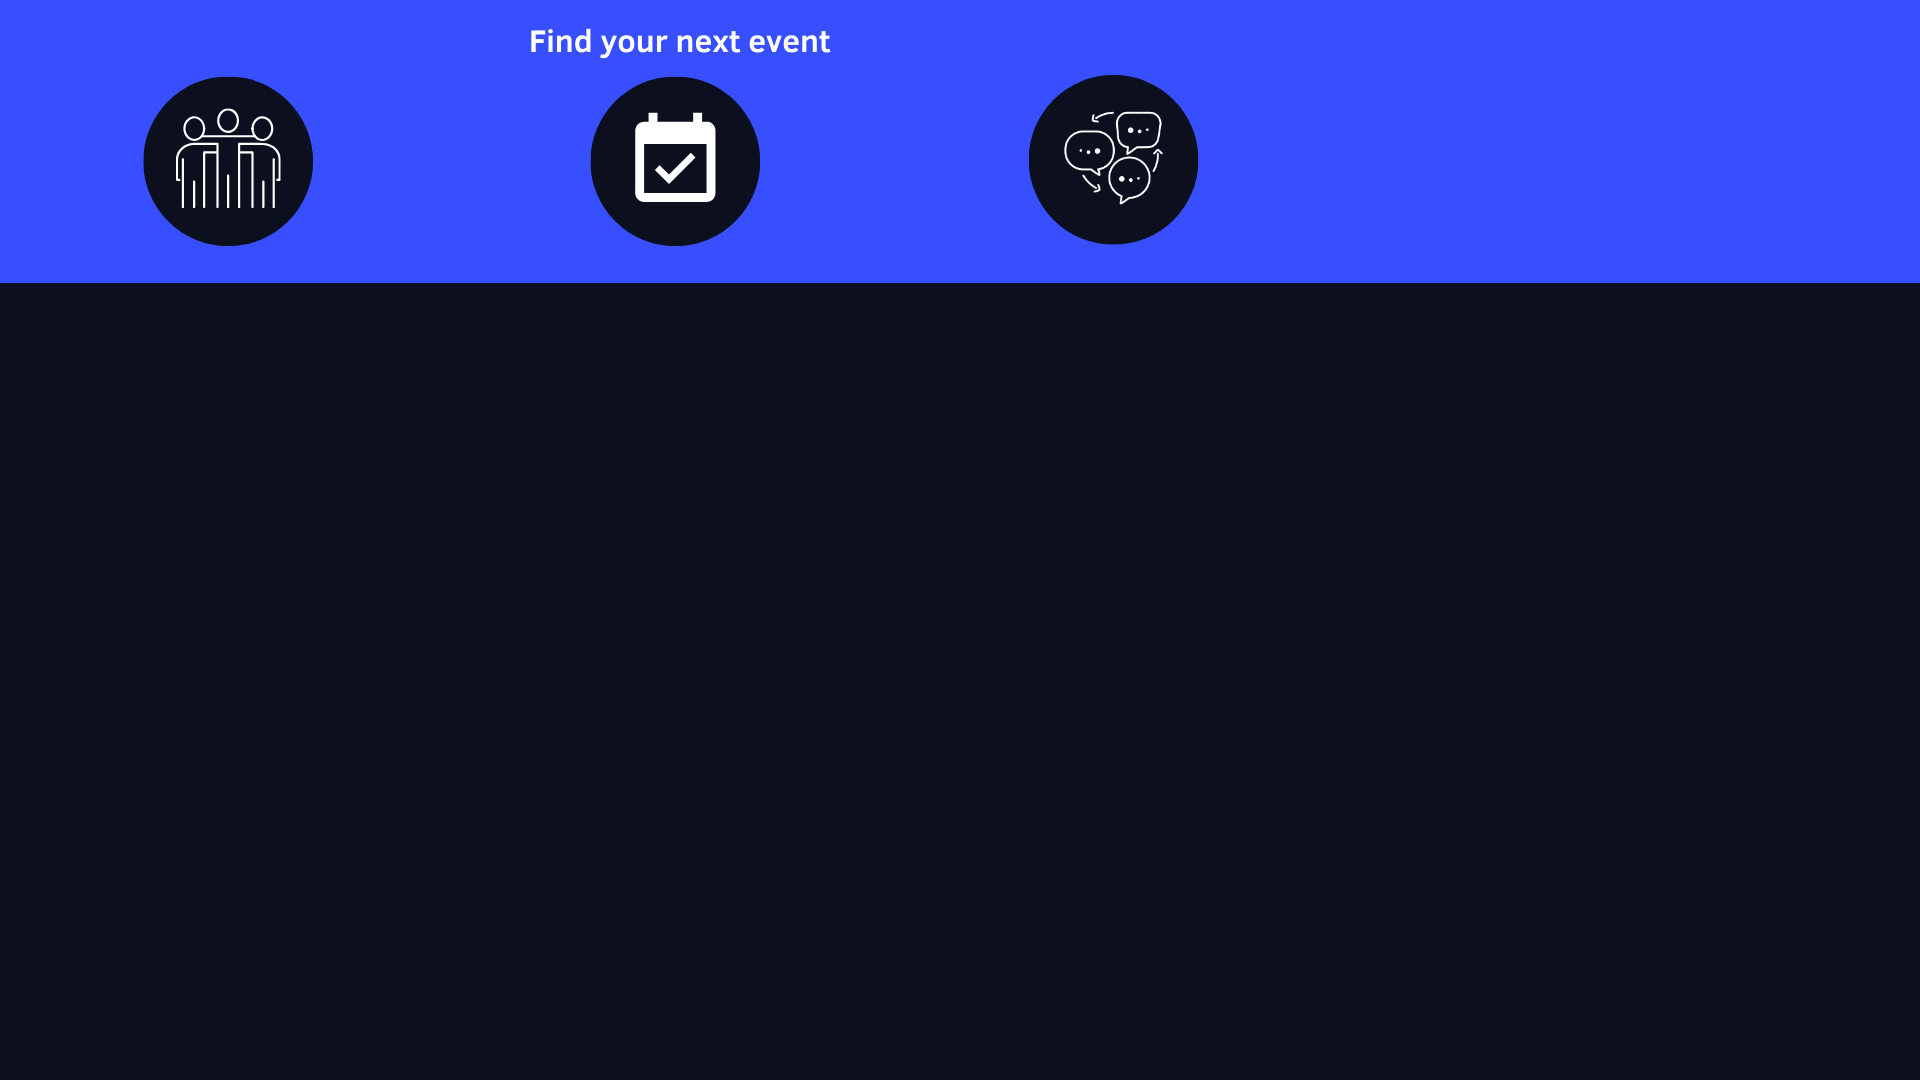
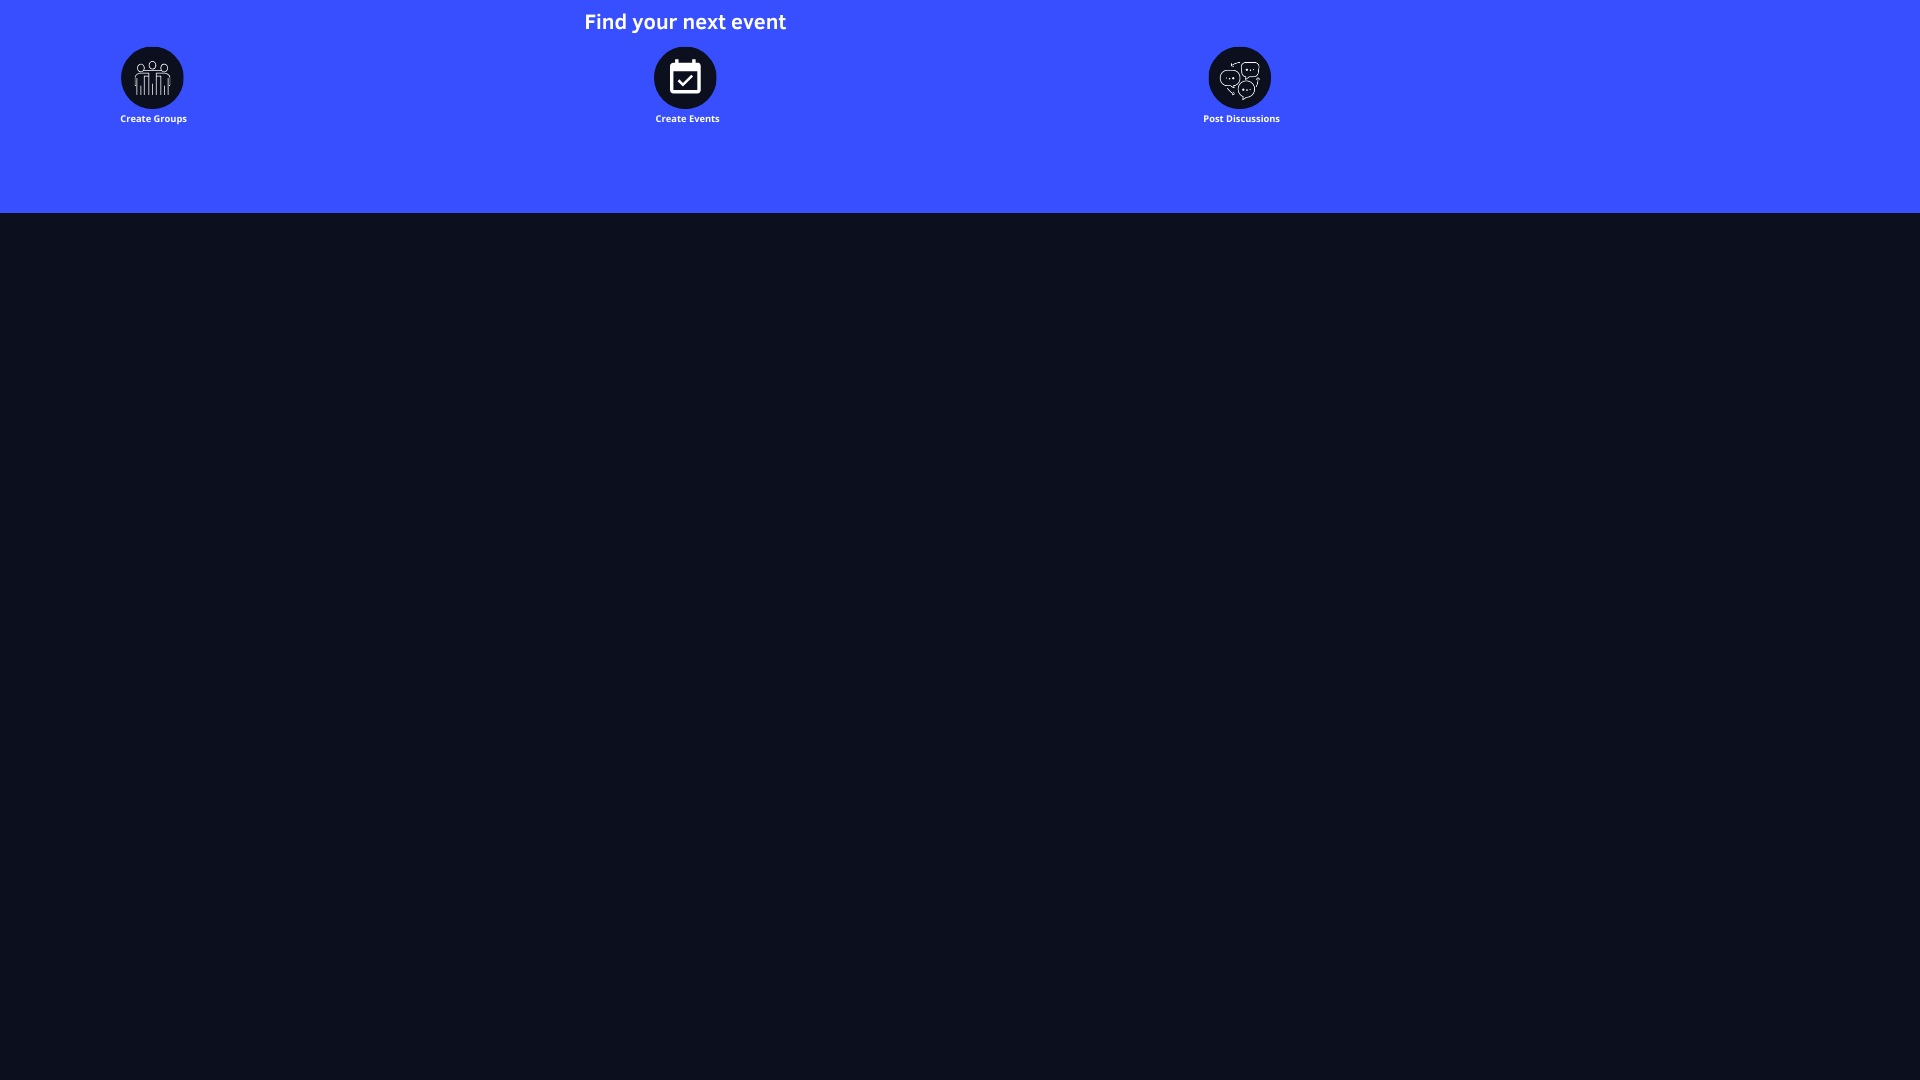
Changes to home and groups page

Changed region(s): [[0.0, 0.0, 1.0, 0.275]]

diff --git a/react-front/src/group/Groups.js b/react-front/src/group/Groups.js
@@ -45,32 +45,60 @@ class Groups extends Component {
             : " Unknown";
 
           return (
-            <div className="card col-md-12 mb-2" key={i}>
-              <div className="card-body">
-                <img
-                  src={`${process.env.REACT_APP_API_URL}/group/photo/${group._id}`}
-                  alt={group.name}
-                  onError={i => (i.target.src = `${DefaultPost}`)}
-                  className="img-thumbnail mb-3"
-                  style={{ height: "200px", width: "300px" }}
-                />
-                <h5 className="card-title">{group.name}</h5>
-                <p className="card-text">{group.about.substring(0, 100)}</p>
-                <br />
-                <div class="card-footer text-muted">
-                  <p>
-                    Created by <Link to={`${creatorId}`}>{creatorName} </Link>
-                    on {new Date(group.created).toDateString()}
-                  </p>
+            <div className='col-md-4 col-xs-6 mb-2' key={i}>
+              <Link to ="/events/details/1234">
+                <div class='card bwm-card'>
+                  {/* <img class='card-img-top' src='http://via.placeholder.com/350x250' alt=''></img> */}
+                  <img
+                   src={`${process.env.REACT_APP_API_URL}/group/photo/${group._id}`}
+                   alt={group.name}
+                   onError={i => (i.target.src = `${DefaultPost}`)}
+                   className="card-img-top"
+                   style={{ height: "200px", width: "300px" }}
+                 />
+
+                  <div class='card-block'>
+                    <h6 class='card-subtitle'>{group.name}</h6>
+                    <h4 class='card-title'>{group.about.substring(0, 100)}</h4>
+                    <p class='card-text'>Created by <Link to={`${creatorId}`}>{creatorName} </Link>
+                     on {new Date(group.created).toDateString()}</p>
+                  </div>
                   <Link
-                    to={`/group/${group._id}`}
-                    className="btn btn-raised btn-primary btn-sm"
-                  >
-                    Read More About This Group
-                  </Link>
+                     to={`/group/${group._id}`}
+                     className="btn btn-raised btn-info btn-sm text-center"
+                   >
+                     Read More About This Group
+                   </Link>
                 </div>
-              </div>
+                
+              </Link>
             </div>
+            // <div className="card col-md-12 mb-2" key={i}>
+            //   <div className="card-body">
+            //     <img
+            //       src={`${process.env.REACT_APP_API_URL}/group/photo/${group._id}`}
+            //       alt={group.name}
+            //       onError={i => (i.target.src = `${DefaultPost}`)}
+            //       className="img-thumbnail mb-3"
+            //       style={{ height: "200px", width: "300px" }}
+            //     />
+            //     <h5 className="card-title">{group.name}</h5>
+            //     <p className="card-text">{group.about.substring(0, 100)}</p>
+            //     <br />
+            //     <div class="card-footer text-muted">
+            //       <p>
+            //         Created by <Link to={`${creatorId}`}>{creatorName} </Link>
+            //         on {new Date(group.created).toDateString()}
+            //       </p>
+            //       <Link
+            //         to={`/group/${group._id}`}
+            //         className="btn btn-raised btn-primary btn-sm"
+            //       >
+            //         Read More About This Group
+            //       </Link>
+            //     </div>
+            //   </div>
+            // </div>
           );
         })}
       </div>

diff --git a/react-front/src/core/Home.js b/react-front/src/core/Home.js
@@ -1,7 +1,7 @@
 import React from "react";
 import { Link } from "react-router-dom";
 import Menu from "./Menu";
-import image from '../images/home2.png';
+import image from '../images/home2 (1).png';
 import image2 from '../images/home.png';
 
 
@@ -18,7 +18,7 @@ const Home = () => (
         display: "flex",
         justifyContent: "center",
         alignItems: "center",
-        height: "50vh"
+        height: "70vh"
       }}
     >
 
@@ -30,14 +30,14 @@ const Home = () => (
         display: "flex",
         justifyContent: "center",
         alignItems: "center",
-        height: "50vh"
+        height: "20vh"
       }}
     >
     {/* <h2 m class="heroPrimary">Find your next event</h2> */}
     {/* backgroundImage: `url("${image}")`; */}
     
     
-    </div>
+   </div>
   </>
 );
 
